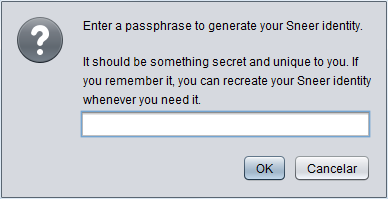
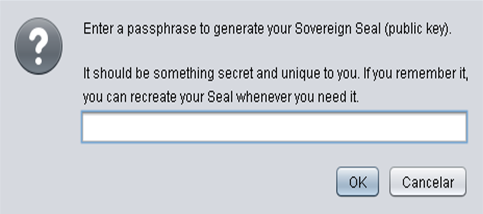
Adding pictures and "Sharing music tracks" section edited

Changed region(s): [[0.0, 0.0, 1.0, 0.995], [0.0, 0.0603, 0.9278, 0.3618]]

diff --git a/gettingStarted.html b/gettingStarted.html
@@ -47,7 +47,7 @@ gettingStarted: class='sel'
 						You will be prompted for a secret passphrase. It should be more than 30 characters long and unique to you, 
 						for example: your childhood phone number followed by a verse from your favorite song.
 					</p>
-					<img id="passphraseScreenPic" src="resources/imgs/passphraseScreen.png" alt="" style="position: relative;" />
+					<img id="passphraseScreenPic" src="resources/imgs/passphraseScreen.png" alt="" style="position: relative; width: 480px; height: 200px;" />
 					<p>
 						Congratulations, you now have a <b><i>sovereign seal</i></b>! You can publish it so that other people can connect to you securely.<br/>
 						<br/>
@@ -89,7 +89,27 @@ gettingStarted: class='sel'
 		<div id="share" align="left" style="display: none;">
 			<ul	style="list-style-type: none; position: relative; margin-left: 10px; width: 650px">
 				<li>
-					<p>Sharing</p>
+					<p>
+						Let's share music tracks with friends? Go to <i>Menu</i> and click on <i>Music</i> to open the Sneer player
+					</p>
+					<img id="musicPic" src="resources/imgs/music.png" alt="" style="position: relative; width: 282px; height: 220px;" />
+					<p>
+						A screen will show up asking you to choose a music tracks folder
+					</p>
+					<img id="tracksFolderPic" src="resources/imgs/tracksFolderScreen.png" alt="" style="position: relative;" />
+					<p>
+						OK! Now you have a drop-down list with all sub-folders and one <i>Inbox</i> option. 
+						It's your tracks inbox and the counter will increase as soon as you receive your friends tracks.
+					</p>
+					<img id="drop-downPic" src="resources/imgs/drop-downScreen.png" alt="" style="position: relative; width: 282px; height: 250px;" />
+					<p>
+						To listen to your musics just choose a folder and Music will start playing automatically
+					</p>
+					<img id="playerPic" src="resources/imgs/player.png" alt="" style="position: relative; width: 282px; height: 170px;" />
+					<p>
+						If you want to follow the progress of your downloads go to <i>Menu</i> and click on <i>Downloads</i>
+					</p>
+					<img id="downloadsPic" src="resources/imgs/downloads.png" alt="" style="position: relative; width: 282px; height: 160px;" />
 				</li>
 			</ul>
 		</div>
